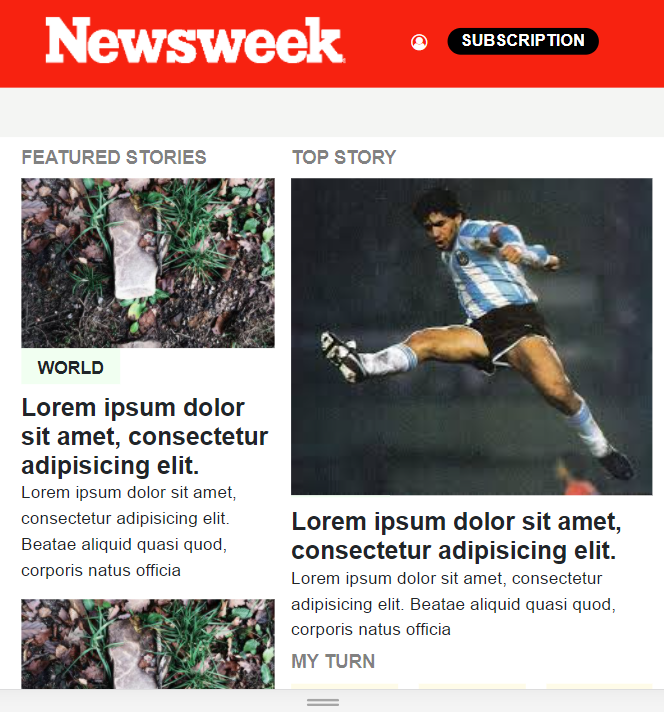
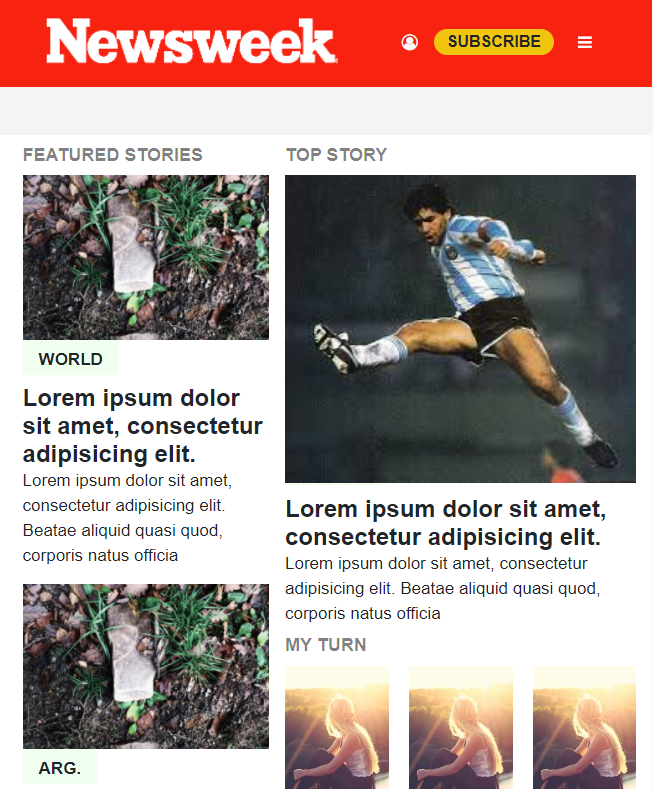
Screenshot updates

diff --git a/index.html b/index.html
@@ -57,8 +57,8 @@
           </div>
 
           <div class="header-buttons p-0 d-none ml-2 col-3 col-md-3 justify-content-end d-flex align-items-center">
-            <a class="btn rounded-pill font-weight-bold  btn--subscribe d-none d-sm-flex  mx-md-2 my-3 py-0 text-white hover-none">SUBSCRIPTION</a>
-            <a href="" class="d-sm-none fa fa-bars text-white" aria-hidden="true"></a>
+            <a class="btn rounded-pill font-weight-bold  btn--subscribe d-none d-sm-flex  mx-md-4 my-3 py-0 text-black hover-none">SUBSCRIBE</a>
+            <a href="" class="d-flex fa fa-bars text-white" aria-hidden="true"></a>
           </div>
         </div>
 

diff --git a/css/style.css b/css/style.css
@@ -66,7 +66,7 @@ footer {
 }
 
 .btn--subscribe {
-  background-color: #000001;
+  background-color: #F1C40F;
   white-space:nowrap;
   text-align:center;
 }
@@ -311,7 +311,7 @@ font-size:2rem;
     height:auto;
   } */
   .header-logo > img {
-  
+
     width:10em;
     height: auto;
 
